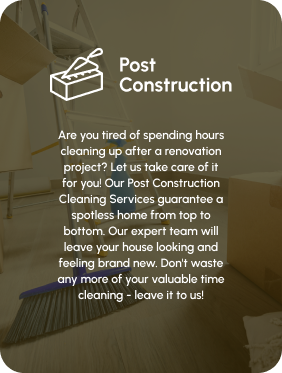
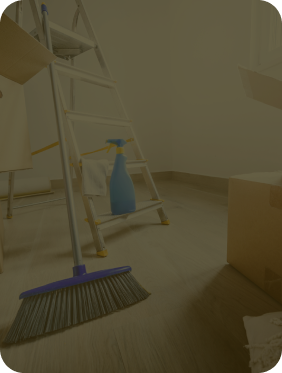
alteracoes1 06-03

Changed region(s): [[0.1986, 0.3539, 0.7943, 0.8257], [0.4255, 0.1475, 0.8227, 0.2654], [0.1702, 0.118, 0.3688, 0.2949]]

diff --git a/index.html b/index.html
@@ -105,65 +105,116 @@
             <swiper-slide class="swiper1">
               <div class="servicescard">
                 <div class="reveal card">
-                  <div class="thefront card__face card__face--front">
                     <img src="./assets/services1.png" alt="" draggable="false">
-                  </div>
-                  <div class="theback card__face card__face--back">
-                    <h2>Residential Cleaning</h2>
+                    <h2>
+                      <svg width="30" height="29" viewBox="0 0 30 29" fill="none" xmlns="http://www.w3.org/2000/svg">
+                      <path d="M28.8525 25.7938H28.3748C28.3653 25.1513 28.1002 24.5399 27.638 24.0933C27.309 23.7596 26.8863 23.5339 26.4259 23.4449C25.7966 22.1468 24.234 21.6047 22.936 22.234C22.4075 22.4902 21.9812 22.9165 21.7251 23.4449C21.2647 23.5333 20.8426 23.7596 20.513 24.0933C20.0508 24.5399 19.7863 25.1513 19.7762 25.7938H14.0441V14.8076C14.0441 14.5436 13.8304 14.3299 13.5665 14.3299H6.87909C6.61518 14.3299 6.40142 14.5436 6.40142 14.8076V25.7938H4.49074V12.5954L15.0001 3.96221L25.5088 12.5954V21.0172C25.5088 21.2811 25.7226 21.4948 25.9865 21.4948C26.2504 21.4948 26.4642 21.2811 26.4642 21.0172V13.3799L26.9299 13.7627C27.1323 13.9293 27.4308 13.9012 27.5992 13.7006L29.2185 11.7708C29.3881 11.5684 29.3618 11.2669 29.1594 11.0973C29.1582 11.0961 29.157 11.0955 29.1558 11.0943L26.4642 8.88334V0.955326C26.4642 0.428105 26.036 0.000597079 25.5088 0H21.6875C21.1602 0 20.7327 0.428105 20.7321 0.955326V4.17537L16.1501 0.411387C15.4754 -0.119416 14.5248 -0.119416 13.8501 0.411387L0.84433 11.0949C0.640723 11.2627 0.610869 11.5636 0.77865 11.7678C0.779844 11.769 0.780442 11.7702 0.781636 11.7714L2.40094 13.7012C2.56932 13.9018 2.86786 13.9298 3.07027 13.7633L3.536 13.3805V25.7944H1.14765C0.883738 25.7944 0.66998 26.0082 0.66998 26.2721V28.1827C0.66998 28.4466 0.883738 28.6604 1.14765 28.6604H28.8525C29.1164 28.6604 29.3302 28.4466 29.3302 28.1827V26.2721C29.3302 26.0082 29.1164 25.7944 28.8525 25.7944V25.7938ZM21.6875 0.955326H25.5088V8.09878L21.6875 4.95993V0.955326ZM2.82905 12.7243L1.82355 11.5266L14.4561 1.14997C14.775 0.898604 15.2246 0.898604 15.5434 1.14997L28.176 11.5266L27.1705 12.7243L15.3034 2.97465C15.1273 2.82956 14.8729 2.82956 14.6968 2.97465L2.82905 12.7243ZM21.1841 24.7734C21.408 24.5322 21.7179 24.3883 22.0469 24.3734C22.2529 24.3763 22.4374 24.2474 22.5055 24.0527C22.8004 23.1852 23.7426 22.7206 24.6102 23.0156C25.098 23.1816 25.4814 23.5649 25.6473 24.0527C25.713 24.2486 25.8993 24.3787 26.1059 24.3734C26.4337 24.3919 26.7424 24.5352 26.9687 24.7734C27.2487 25.0397 27.4111 25.4069 27.4207 25.7932H20.7333C20.7423 25.4069 20.9053 25.0397 21.1853 24.7734H21.1841ZM7.35736 15.2846H13.0894V25.7932H7.35736V15.2846ZM28.3748 27.7039H1.62532V26.7485H28.3748V27.7039ZM16.4331 14.3293C16.1692 14.3293 15.9554 14.543 15.9554 14.807V20.5389C15.9554 20.8028 16.1692 21.0166 16.4331 21.0166H23.1205C23.3844 21.0166 23.5981 20.8028 23.5981 20.5389V14.807C23.5981 14.543 23.3844 14.3293 23.1205 14.3293H16.4331ZM22.6428 17.1953H20.2544V15.2846H22.6428V17.1953ZM19.2991 15.2846V17.1953H16.9108V15.2846H19.2991ZM16.9108 18.1506H19.2991V20.0612H16.9108V18.1506ZM20.2544 20.0612V18.1506H22.6428V20.0612H20.2544Z" fill="white"/>
+                      </svg>
+                       Residential <br>Cleaning</h2>
                     <p>If your busy schedule leaves you with little time for residential cleaning, Maximum Shine Cleaning Services can help. Our team can provide a clean home more frequently, allowing you to spend less time cleaning and give your family a fresher, healthier environment.</p>
-                  </div>
                 </div>
               </div>
             </swiper-slide>
             <swiper-slide class="swiper1">
               <div class="servicescard">
                 <div class="card reveal">
-                  <div class="thefront card__face card__face--front">
                     <img src="./assets/services2.png" alt="" draggable="false">
-                  </div>
-                  <div class="theback card__face card__face--back">
-                    <h2>Office Cleaning</h2>
+                    <h2>
+                      <svg width="29" height="29" viewBox="0 0 29 29" fill="none" xmlns="http://www.w3.org/2000/svg">
+                        <path d="M26.9192 27.6942H26.1232V2.41542C26.1232 2.14841 25.9095 1.93234 25.6454 1.93234H16.7289C16.4648 1.93234 16.2511 2.14841 16.2511 2.41542V4.50841H15.2957V2.41542C15.2957 2.14841 15.082 1.93234 14.818 1.93234H12.7483V0.483084C12.7483 0.216072 12.5346 0 12.2706 0C12.0065 0 11.7928 0.216072 11.7928 0.483084V1.93234H9.72312C9.45908 1.93234 9.24541 2.14841 9.24541 2.41542V4.50841H7.81227C7.54822 4.50841 7.33455 4.72448 7.33455 4.9915V9.01682H3.35397C3.08993 9.01682 2.87626 9.2329 2.87626 9.49991V27.6942H2.08025C1.81621 27.6942 1.60254 27.9103 1.60254 28.1773C1.60254 28.4443 1.81621 28.6604 2.08025 28.6604H26.9192C27.1832 28.6604 27.3969 28.4443 27.3969 28.1773C27.3969 27.9103 27.1832 27.6942 26.9192 27.6942ZM10.2008 2.8985H14.3408V4.50841H10.2008V2.8985ZM8.60883 27.6948H8.29053V26.8898C8.29053 26.6228 8.07686 26.4067 7.81282 26.4067C7.54878 26.4067 7.33511 26.6228 7.33511 26.8898V27.6948H7.01681V26.0849H8.60883V27.6948ZM11.7934 15.2969V27.6948H9.56425V25.6018C9.56425 25.3348 9.35058 25.1187 9.08654 25.1187H6.5391C6.27506 25.1187 6.06139 25.3348 6.06139 25.6018V27.6948H3.83224V9.98299H11.7934V15.2964V15.2969ZM12.2711 9.01738H8.29053V5.47514H16.2517V14.8138H12.7488V13.2039H14.182C14.446 13.2039 14.6597 12.9879 14.6597 12.7208C14.6597 12.4538 14.446 12.2378 14.182 12.2378H12.7488V10.6279H14.182C14.446 10.6279 14.6597 10.4118 14.6597 10.1448C14.6597 9.87775 14.446 9.66168 14.182 9.66168H12.7488V9.50047C12.7488 9.23346 12.5352 9.01738 12.2711 9.01738ZM20.71 27.6948H12.7488V15.78H20.71V27.6948ZM25.1683 27.6948H21.6654V14.6526C21.6654 14.3856 21.4517 14.1695 21.1877 14.1695C20.9237 14.1695 20.71 14.3856 20.71 14.6526V14.8138H19.7546V14.6526C19.7546 14.3856 19.5409 14.1695 19.2768 14.1695C19.0128 14.1695 18.7991 14.3856 18.7991 14.6526V14.8138H17.2071V2.8985H25.1683V27.6948Z" fill="white"/>
+                        <path d="M14.8583 26.869C15.0563 26.869 15.2165 26.6519 15.2165 26.3836V17.3233C15.2165 17.055 15.0563 16.8379 14.8583 16.8379C14.6602 16.8379 14.5 17.055 14.5 17.3233V26.3836C14.5 26.6519 14.6602 26.869 14.8583 26.869Z" fill="white"/>
+                        <path d="M16.8284 26.869C17.1254 26.869 17.3658 26.6519 17.3658 26.3836V17.3233C17.3658 17.055 17.1254 16.8379 16.8284 16.8379C16.5314 16.8379 16.291 17.055 16.291 17.3233V26.3836C16.291 26.6519 16.5314 26.869 16.8284 26.869Z" fill="white"/>
+                        <path d="M18.6204 26.869C18.9174 26.869 19.1578 26.6519 19.1578 26.3836V17.3233C19.1578 17.055 18.9174 16.8379 18.6204 16.8379C18.3234 16.8379 18.083 17.055 18.083 17.3233V26.3836C18.083 26.6519 18.3234 26.869 18.6204 26.869Z" fill="white"/>
+                        <path d="M19.3362 6.09025C19.6332 6.09025 19.8736 5.89798 19.8736 5.66039V5.08708C19.8736 4.84949 19.6332 4.65723 19.3362 4.65723C19.0392 4.65723 18.7988 4.84949 18.7988 5.08708V5.66039C18.7988 5.89798 19.0392 6.09025 19.3362 6.09025Z" fill="white"/>
+                        <path d="M21.3075 6.09025C21.5055 6.09025 21.6657 5.89798 21.6657 5.66039V5.08708C21.6657 4.84949 21.5055 4.65723 21.3075 4.65723C21.1095 4.65723 20.9492 4.84949 20.9492 5.08708V5.66039C20.9492 5.89798 21.1095 6.09025 21.3075 6.09025Z" fill="white"/>
+                        <path d="M23.2776 6.09025C23.5746 6.09025 23.815 5.89798 23.815 5.66039V5.08708C23.815 4.84949 23.5746 4.65723 23.2776 4.65723C22.9806 4.65723 22.7402 4.84949 22.7402 5.08708V5.66039C22.7402 5.89798 22.9806 6.09025 23.2776 6.09025Z" fill="white"/>
+                        <path d="M19.3362 9.31485C19.6332 9.31485 19.8736 9.12259 19.8736 8.885V8.31169C19.8736 8.0741 19.6332 7.88184 19.3362 7.88184C19.0392 7.88184 18.7988 8.0741 18.7988 8.31169V8.885C18.7988 9.12259 19.0392 9.31485 19.3362 9.31485Z" fill="white"/>
+                        <path d="M21.3075 9.31485C21.5055 9.31485 21.6657 9.12259 21.6657 8.885V8.31169C21.6657 8.0741 21.5055 7.88184 21.3075 7.88184C21.1095 7.88184 20.9492 8.0741 20.9492 8.31169V8.885C20.9492 9.12259 21.1095 9.31485 21.3075 9.31485Z" fill="white"/>
+                        <path d="M23.2776 9.31485C23.5746 9.31485 23.815 9.12259 23.815 8.885V8.31169C23.815 8.0741 23.5746 7.88184 23.2776 7.88184C22.9806 7.88184 22.7402 8.0741 22.7402 8.31169V8.885C22.7402 9.12259 22.9806 9.31485 23.2776 9.31485Z" fill="white"/>
+                        <path d="M19.3362 12.5385C19.6332 12.5385 19.8736 12.3462 19.8736 12.1086V11.5353C19.8736 11.2977 19.6332 11.1055 19.3362 11.1055C19.0392 11.1055 18.7988 11.2977 18.7988 11.5353V12.1086C18.7988 12.3462 19.0392 12.5385 19.3362 12.5385Z" fill="white"/>
+                        <path d="M21.3075 12.5385C21.5055 12.5385 21.6657 12.3462 21.6657 12.1086V11.5353C21.6657 11.2977 21.5055 11.1055 21.3075 11.1055C21.1095 11.1055 20.9492 11.2977 20.9492 11.5353V12.1086C20.9492 12.3462 21.1095 12.5385 21.3075 12.5385Z" fill="white"/>
+                        <path d="M23.2776 12.5385C23.5746 12.5385 23.815 12.3462 23.815 12.1086V11.5353C23.815 11.2977 23.5746 11.1055 23.2776 11.1055C22.9806 11.1055 22.7402 11.2977 22.7402 11.5353V12.1086C22.7402 12.3462 22.9806 12.5385 23.2776 12.5385Z" fill="white"/>
+                        <path d="M5.72293 13.9719C6.01995 13.9719 6.26031 13.7316 6.26031 13.4346V12.718C6.26031 12.421 6.01995 12.1807 5.72293 12.1807C5.42591 12.1807 5.18555 12.421 5.18555 12.718V13.4346C5.18555 13.7316 5.42591 13.9719 5.72293 13.9719Z" fill="white"/>
+                        <path d="M7.69322 13.9719C7.89123 13.9719 8.05147 13.7316 8.05147 13.4346V12.718C8.05147 12.421 7.89123 12.1807 7.69322 12.1807C7.4952 12.1807 7.33496 12.421 7.33496 12.718V13.4346C7.33496 13.7316 7.4952 13.9719 7.69322 13.9719Z" fill="white"/>
+                        <path d="M9.66336 13.9719C9.96038 13.9719 10.2007 13.7316 10.2007 13.4346V12.718C10.2007 12.421 9.96038 12.1807 9.66336 12.1807C9.36633 12.1807 9.12598 12.421 9.12598 12.718V13.4346C9.12598 13.7316 9.36633 13.9719 9.66336 13.9719Z" fill="white"/>
+                        <path d="M5.72293 17.1965C6.01995 17.1965 6.26031 16.9562 6.26031 16.6592V15.9426C6.26031 15.6456 6.01995 15.4053 5.72293 15.4053C5.42591 15.4053 5.18555 15.6456 5.18555 15.9426V16.6592C5.18555 16.9562 5.42591 17.1965 5.72293 17.1965Z" fill="white"/>
+                        <path d="M7.69322 17.1965C7.89123 17.1965 8.05147 16.9562 8.05147 16.6592V15.9426C8.05147 15.6456 7.89123 15.4053 7.69322 15.4053C7.4952 15.4053 7.33496 15.6456 7.33496 15.9426V16.6592C7.33496 16.9562 7.4952 17.1965 7.69322 17.1965Z" fill="white"/>
+                        <path d="M9.66336 17.1965C9.96038 17.1965 10.2007 16.9562 10.2007 16.6592V15.9426C10.2007 15.6456 9.96038 15.4053 9.66336 15.4053C9.36633 15.4053 9.12598 15.6456 9.12598 15.9426V16.6592C9.12598 16.9562 9.36633 17.1965 9.66336 17.1965Z" fill="white"/>
+                        <path d="M5.72293 20.4202C6.01995 20.4202 6.26031 20.1798 6.26031 19.8829V19.1662C6.26031 18.8692 6.01995 18.6289 5.72293 18.6289C5.42591 18.6289 5.18555 18.8692 5.18555 19.1662V19.8829C5.18555 20.1798 5.42591 20.4202 5.72293 20.4202Z" fill="white"/>
+                        <path d="M7.69322 20.4202C7.89123 20.4202 8.05147 20.1798 8.05147 19.8829V19.1662C8.05147 18.8692 7.89123 18.6289 7.69322 18.6289C7.4952 18.6289 7.33496 18.8692 7.33496 19.1662V19.8829C7.33496 20.1798 7.4952 20.4202 7.69322 20.4202Z" fill="white"/>
+                        <path d="M9.66336 20.4202C9.96038 20.4202 10.2007 20.1798 10.2007 19.8829V19.1662C10.2007 18.8692 9.96038 18.6289 9.66336 18.6289C9.36633 18.6289 9.12598 18.8692 9.12598 19.1662V19.8829C9.12598 20.1798 9.36633 20.4202 9.66336 20.4202Z" fill="white"/>
+                        <path d="M5.72293 23.6448C6.01995 23.6448 6.26031 23.4045 6.26031 23.1075V22.3908C6.26031 22.0938 6.01995 21.8535 5.72293 21.8535C5.42591 21.8535 5.18555 22.0938 5.18555 22.3908V23.1075C5.18555 23.4045 5.42591 23.6448 5.72293 23.6448Z" fill="white"/>
+                        <path d="M7.69322 23.6448C7.89123 23.6448 8.05147 23.4045 8.05147 23.1075V22.3908C8.05147 22.0938 7.89123 21.8535 7.69322 21.8535C7.4952 21.8535 7.33496 22.0938 7.33496 22.3908V23.1075C7.33496 23.4045 7.4952 23.6448 7.69322 23.6448Z" fill="white"/>
+                        <path d="M9.66336 23.6448C9.96038 23.6448 10.2007 23.4045 10.2007 23.1075V22.3908C10.2007 22.0938 9.96038 21.8535 9.66336 21.8535C9.36633 21.8535 9.12598 22.0938 9.12598 22.3908V23.1075C9.12598 23.4045 9.36633 23.6448 9.66336 23.6448Z" fill="white"/>
+                        <path d="M23.2776 15.7631C23.5746 15.7631 23.815 15.5708 23.815 15.3332V14.7599C23.815 14.5223 23.5746 14.3301 23.2776 14.3301C22.9806 14.3301 22.7402 14.5223 22.7402 14.7599V15.3332C22.7402 15.5708 22.9806 15.7631 23.2776 15.7631Z" fill="white"/>
+                        <path d="M23.2776 18.9876C23.5746 18.9876 23.815 18.7472 23.815 18.4502V17.7336C23.815 17.4366 23.5746 17.1963 23.2776 17.1963C22.9806 17.1963 22.7402 17.4366 22.7402 17.7336V18.4502C22.7402 18.7472 22.9806 18.9876 23.2776 18.9876Z" fill="white"/>
+                        <path d="M23.2776 22.2112C23.5746 22.2112 23.815 21.9709 23.815 21.6739V20.9572C23.815 20.6603 23.5746 20.4199 23.2776 20.4199C22.9806 20.4199 22.7402 20.6603 22.7402 20.9572V21.6739C22.7402 21.9709 22.9806 22.2112 23.2776 22.2112Z" fill="white"/>
+                        <path d="M23.2776 25.4358C23.5746 25.4358 23.815 25.1955 23.815 24.8985V24.1818C23.815 23.8849 23.5746 23.6445 23.2776 23.6445C22.9806 23.6445 22.7402 23.8849 22.7402 24.1818V24.8985C22.7402 25.1955 22.9806 25.4358 23.2776 25.4358Z" fill="white"/>
+                        <path d="M14.5001 7.52329C14.5001 7.32528 14.2918 7.16504 14.0343 7.16504H10.3086C10.0511 7.16504 9.84277 7.32528 9.84277 7.52329C9.84277 7.72131 10.0511 7.88155 10.3086 7.88155H14.0343C14.2918 7.88155 14.5001 7.72131 14.5001 7.52329Z" fill="white"/>
+                        </svg>
+                         Office <br>Cleaning</h2>
                     <p>Office cleaning is an important aspect of maintaining a good first impression for your customers and visitors, as well as promoting better physical and emotional wellbeing for your staff. By reducing the presence of viruses, allergens, dust, and mold, your team can remain healthy and focused, leading to increased productivity. Our team of professional office cleaners are thoroughly vetted, trained, and supported by experienced management to ensure that the process is hassle-free for you. This way, your staff can stay healthy and focused on their work.</p>
-                  </div>
                 </div>
               </div>
             </swiper-slide>
             <swiper-slide class="swiper1">
               <div class="servicescard">
                 <div class="card reveal">
-                  <div class="thefront card__face card__face--front">
                     <img src="./assets/services3.png" alt="" draggable="false">
-                  </div>
-                  <div class="theback card__face card__face--back">
-                    <h2>Move-in / Move Out Cleaning</h2>
+                    <h2>
+                      <svg width="28" height="28" viewBox="0 0 28 28" fill="none" xmlns="http://www.w3.org/2000/svg">
+                        <g clip-path="url(#clip0_5474_81)">
+                        <path d="M5.24512 12.3597C2.44732 12.3629 0.180296 14.6151 0.176758 17.3946C0.176758 20.0432 4.68279 26.1075 4.87652 26.3662C4.96351 26.4822 5.10092 26.5511 5.24659 26.5511C5.39226 26.5511 5.52967 26.4825 5.61666 26.3662C5.80745 26.1075 10.3135 20.0432 10.3135 17.3946C10.3099 14.6151 8.04292 12.3629 5.24512 12.3594V12.3597ZM5.24512 25.3136C3.81673 23.3242 1.09855 19.1749 1.09855 17.3949C1.09855 15.1198 2.9551 13.2754 5.24512 13.2754C7.53514 13.2754 9.39169 15.1198 9.39169 17.3949C9.39169 19.1743 6.67321 23.3239 5.24512 25.3136Z" fill="white"/>
+                        <path d="M5.24495 14.6475C3.71837 14.6475 2.48047 15.8773 2.48047 17.3939C2.48047 18.9105 3.71837 20.1403 5.24495 20.1403C6.77153 20.1403 8.00943 18.9105 8.00943 17.3939C8.00795 15.8776 6.77123 14.6489 5.24495 14.6475ZM5.24495 19.2248C4.22703 19.2248 3.40196 18.4051 3.40196 17.3939C3.40196 16.3826 4.22703 15.5629 5.24495 15.5629C6.26287 15.5629 7.08793 16.3826 7.08793 17.3939C7.08793 18.4051 6.26287 19.2248 5.24495 19.2248Z" fill="white"/>
+                        <path d="M22.7539 0C19.9561 0.00351541 17.6891 2.25572 17.6855 5.03523C17.6855 7.6838 22.1916 13.7482 22.3853 14.0068C22.4723 14.1228 22.6097 14.1917 22.7554 14.1917C22.9011 14.1917 23.0385 14.1231 23.1255 14.0068C23.3162 13.7482 27.8223 7.6838 27.8223 5.03523C27.8187 2.25572 25.5517 0.00351541 22.7539 0ZM22.7539 12.954C21.3255 10.9651 18.6073 6.81578 18.6073 5.03523C18.6073 2.76018 20.4639 0.915763 22.7539 0.915763C25.0439 0.915763 26.9005 2.76018 26.9005 5.03523C26.9005 6.81461 24.182 10.9643 22.7539 12.954Z" fill="white"/>
+                        <path d="M22.7528 2.28906C21.2262 2.28906 19.9883 3.51887 19.9883 5.03547C19.9883 6.55208 21.2262 7.78188 22.7528 7.78188C24.2793 7.78188 25.5172 6.55208 25.5172 5.03547C25.5158 3.51916 24.279 2.29053 22.7528 2.28906ZM22.7528 6.86641C21.7348 6.86641 20.9098 6.04674 20.9098 5.03547C20.9098 4.02421 21.7348 3.20453 22.7528 3.20453C23.7707 3.20453 24.5957 4.02421 24.5957 5.03547C24.5957 6.04674 23.7707 6.86641 22.7528 6.86641Z" fill="white"/>
+                        <path d="M16.8994 15.0133C15.9369 15.7943 15.3796 16.9644 15.3819 18.1986V21.513C15.3784 24.2926 13.1114 26.5448 10.3136 26.5483H6.16699V27.4637H10.3136C13.62 27.4602 16.2996 24.7979 16.3031 21.5133V18.1989C16.3037 17.2395 16.7372 16.3307 17.4844 15.7229C18.2316 15.1144 19.2136 14.8713 20.161 15.0593L22.6616 15.5538L22.842 14.6568L20.3403 14.1597C19.1224 13.9165 17.8592 14.23 16.8991 15.0139L16.8994 15.0133Z" fill="white"/>
+                        </g>
+                        <defs>
+                        <clipPath id="clip0_5474_81">
+                        <rect width="27.6448" height="27.4641" fill="white" transform="translate(0.177734)"/>
+                        </clipPath>
+                        </defs>
+                        </svg>
+                         Move-in / <br>Move Out Cleaning</h2>
                     <p>You deserve a fresh, clean start in your new home. But after tackling the process of finding a new home, making sense of all your belongings, packing and cleaning your old home, and hiring a moving company, who has the energy or mind to think about tidying up? The best time to clean your new home is while it's empty, so be sure to add “Call Maximum Shine Cleaning Services” to your move-in and move-out checklist.</p>
-                  </div>
                 </div>
               </div>
             </swiper-slide>
             <swiper-slide class="swiper1">
               <div class="servicescard">
                 <div class="card reveal">
-                  <div class="thefront card__face card__face--front">
                     <img src="./assets/services4.png" alt="" draggable="false">
-                  </div>
-                  <div class="theback card__face card__face--back">
-                    <h2>Post Construction</h2>
+                    <h2>
+                      <svg width="32" height="31" viewBox="0 0 32 31" fill="none" xmlns="http://www.w3.org/2000/svg">
+                        <path d="M31.4425 14.6142C31.4298 14.5833 31.4164 14.5549 31.3983 14.5252C31.3674 14.4737 31.3274 14.4295 31.282 14.3884C31.2639 14.3714 31.256 14.3484 31.2354 14.3339C31.2263 14.3272 31.2136 14.3272 31.2045 14.3212C31.193 14.3133 31.1864 14.3018 31.1737 14.2939L28.2741 12.6367C28.6616 12.2638 28.9159 11.7582 28.9159 11.1872C28.9159 10.4159 28.486 9.72141 27.7945 9.37387L23.0616 7.0077L23.6107 5.63449L23.9825 5.44861C24.175 5.56486 24.3972 5.62783 24.6285 5.62783C24.746 5.62783 24.8659 5.61209 24.9852 5.57879L29.9633 4.15533C30.8673 3.89559 31.4988 3.05883 31.4988 2.11854C31.4988 0.950586 30.5482 0 29.3803 0H28.7863C28.3055 0 27.8357 0.165293 27.4621 0.463789L23.8402 3.36096C23.5405 3.60133 23.3934 3.94705 23.3801 4.30549L22.8133 4.58824C22.6711 4.65908 22.5603 4.77957 22.5021 4.9267L21.9015 6.42766L20.0972 5.52611C18.7192 4.83648 16.9518 5.20945 15.9691 6.38891L10.4666 12.9921L0.980137 15.5218C0.943809 15.5321 0.916562 15.5539 0.883262 15.5696C0.863887 15.5787 0.840879 15.5745 0.821504 15.5866C0.81 15.5932 0.804551 15.6072 0.794258 15.6138C0.713125 15.6683 0.64168 15.7337 0.592637 15.8167C0.587187 15.8257 0.584766 15.8348 0.579922 15.8439C0.537539 15.9238 0.515137 16.0134 0.510293 16.1061C0.510293 16.12 0.5 16.1321 0.5 16.146V25.1875C0.5 25.4188 0.624121 25.6331 0.825742 25.7482L9.86721 30.9146C9.9665 30.9715 10.0779 31 10.1875 31C10.2505 31 10.3165 30.9909 10.38 30.9703L31.0465 24.5118C31.3165 24.4276 31.5 24.1788 31.5 23.8954V14.854C31.5 14.8322 31.4873 14.814 31.4861 14.7922C31.4794 14.7304 31.4667 14.6723 31.4437 14.6142H31.4425ZM28.2716 1.4725C28.4163 1.35625 28.5998 1.29146 28.7869 1.29146H29.3821C29.838 1.29146 30.2085 1.66201 30.2085 2.11793C30.2085 2.48484 29.9615 2.8118 29.6091 2.9123L24.973 4.23768C24.973 4.23768 24.9718 4.23404 24.9718 4.23102C24.9579 4.20135 24.9319 4.18318 24.9137 4.15715L28.2704 1.47189L28.2716 1.4725ZM16.9633 7.21537C17.3653 6.73463 17.9538 6.45854 18.5805 6.45854C18.905 6.45854 19.2302 6.53604 19.525 6.67953L21.4226 7.6277L21.2924 7.95344L15.0216 11.7176C14.7164 11.9011 14.6171 12.2977 14.8006 12.6034C14.9223 12.8063 15.1348 12.9171 15.3546 12.9171C15.4684 12.9171 15.5834 12.8874 15.6864 12.8238L22.1449 8.94883C22.2666 8.87617 22.3592 8.76658 22.4125 8.63519L22.5833 8.20895L27.2218 10.5273C27.4724 10.6538 27.6286 10.9057 27.6286 11.1909C27.6286 11.5293 27.3986 11.8224 27.0704 11.9053L26.7568 11.984C26.7568 11.984 26.7531 11.9853 26.7519 11.9853L9.37012 16.3301L16.9651 7.21477L16.9633 7.21537ZM9.54146 29.2411L1.79086 24.8127V17.2589L9.54086 21.6867V29.2405L9.54146 29.2411ZM10.2638 20.6126L2.83166 16.3658L9.03711 14.7111L7.10869 17.0246C6.93068 17.2401 6.90949 17.5453 7.05844 17.7814C7.17711 17.9727 7.3866 18.0835 7.60457 18.0835C7.65603 18.0835 7.70932 18.0769 7.76199 18.0629L9.93199 17.5204L11.7932 18.6375C11.8979 18.6993 12.013 18.7296 12.125 18.7296C12.343 18.7296 12.5579 18.6188 12.679 18.4171C12.8625 18.1108 12.7644 17.7142 12.458 17.5307L11.7024 17.0772L14.1848 16.4572L15.6676 17.3461C15.7723 17.4078 15.8874 17.4381 15.9994 17.4381C16.218 17.4381 16.4323 17.3273 16.5534 17.1257C16.7369 16.8193 16.6388 16.4227 16.3324 16.2393L15.9564 16.0146L18.44 15.3934L19.5408 16.0546C19.6467 16.1164 19.7618 16.1466 19.8738 16.1466C20.0924 16.1466 20.3067 16.0358 20.4278 15.8342C20.61 15.5291 20.5132 15.1355 20.211 14.9508L22.6947 14.3296L23.4164 14.7625C23.5211 14.8255 23.6362 14.8558 23.7482 14.8558C23.9668 14.8558 24.1811 14.7444 24.3022 14.5434C24.4196 14.3472 24.4106 14.1171 24.3149 13.9258L26.8246 13.2979L29.2452 14.6814L10.2614 20.6138L10.2638 20.6126ZM30.2085 23.4207L10.8335 29.476V21.7866L30.2085 15.7325V23.4207Z" fill="white"/>
+                        </svg>
+                         Post <br>Construction</h2>
                     <p>Are you tired of spending hours cleaning up after a renovation project? Let us take care of it for you! Our Post Construction Cleaning Services guarantee a spotless home from top to bottom. Our expert team will leave your house looking and feeling brand new. Don't waste any more of your valuable time cleaning - leave it to us!</p>
-                  </div>
                 </div>        
               </div>
             </swiper-slide>
             <swiper-slide class="swiper1">
               <div class="servicescard">
                 <div class="card reveal">
-                  <div class="thefront card__face card__face--front">
                     <img src="./assets/services5.png" alt="" draggable="false">
-                  </div>
-                  <div class="theback card__face card__face--back">
-                    <h2>Driveways & Garage Cleaning</h2>
+                    <h2>
+                      <svg width="28" height="29" viewBox="0 0 28 29" fill="none" xmlns="http://www.w3.org/2000/svg">
+                        <g clip-path="url(#clip0_5474_116)">
+                        <path d="M27.5292 8.11736L14.2394 0.0697015C14.0888 -0.0219317 13.9002 -0.0219317 13.7497 0.0697015L0.469395 8.11736C0.330755 8.20542 0.249237 8.36013 0.255188 8.52435V28.1821C0.255188 28.4451 0.440834 28.6694 0.703833 28.6694H3.53792C3.80092 28.6634 4.00977 28.4451 4.00382 28.1821V14.6864H23.9965V28.1821C23.9912 28.4451 24.1994 28.6634 24.4624 28.6694H27.2965C27.5595 28.6694 27.7452 28.4451 27.7452 28.1821V8.52435C27.7505 8.36013 27.6684 8.20483 27.5292 8.11677V8.11736ZM4.00382 13.7344V11.8303H23.9965V13.7344H4.00382ZM26.7931 27.7174H24.9486V11.3584C24.9444 11.0925 24.7284 10.8794 24.4624 10.8783H3.53732C3.27135 10.8794 3.05536 11.0931 3.05119 11.3584V27.7174H1.20663V8.79271L14.0002 1.03304L26.7931 8.79271V27.7168V27.7174Z" fill="white"/>
+                        <path d="M21.3936 20.0342L20.1357 16.6295C19.9031 16.0024 19.3074 15.5835 18.638 15.5781H9.58479C8.91599 15.5841 8.31978 16.0024 8.08712 16.6295L6.8465 19.9819L6.35799 20.443C5.88078 20.8542 5.60707 21.4534 5.60945 22.0835V28.1813C5.60469 28.4449 5.81355 28.6626 6.07655 28.6686H9.25277C9.51458 28.662 9.72165 28.4443 9.71451 28.1831C9.71451 28.1831 9.71451 28.1819 9.71451 28.1813V26.467H18.2828V28.1813C18.2757 28.4431 18.4815 28.6609 18.7434 28.6686C18.7434 28.6686 18.7445 28.6686 18.7451 28.6686H21.922C22.1856 28.6626 22.3944 28.4449 22.389 28.1813V21.955C22.3896 21.3677 22.151 20.8048 21.7286 20.3972L21.3936 20.0342ZM8.98025 16.9705C9.07248 16.7134 9.31227 16.5391 9.58539 16.5302H18.638C18.9106 16.5391 19.1503 16.7134 19.2432 16.9705L20.2851 19.8028H7.93777L8.97965 16.9705H8.98025ZM8.76366 27.7166H6.56208V26.467H8.76366V27.7166ZM19.236 27.7166V26.467H21.4376V27.7166H19.236ZM21.4376 25.515H6.56208V22.0835C6.5603 21.73 6.71441 21.3933 6.98336 21.1642C6.98871 21.1594 6.99228 21.1648 6.99704 21.16L7.44152 20.7548H20.7456L21.0479 21.0678C21.0544 21.0749 21.0568 21.0767 21.0639 21.0839C21.3031 21.3106 21.4382 21.6259 21.4376 21.9556V25.5156V25.515Z" fill="white"/>
+                        <path d="M8.91186 21.8857H8.63756C7.86522 21.8857 7.23926 22.5117 7.23926 23.284C7.23926 24.0564 7.86522 24.6823 8.63756 24.6823H8.91186C9.6842 24.6823 10.3102 24.0564 10.3102 23.284C10.3102 22.5117 9.6842 21.8857 8.91186 21.8857ZM8.91186 23.7303H8.63756C8.39122 23.7303 8.19129 23.5304 8.19129 23.284C8.19129 23.0377 8.39122 22.8378 8.63756 22.8378H8.91186C9.1582 22.8378 9.35813 23.0377 9.35813 23.284C9.35813 23.5304 9.1582 23.7303 8.91186 23.7303Z" fill="white"/>
+                        <path d="M19.363 21.8857H19.0887C18.3164 21.8857 17.6904 22.5117 17.6904 23.284C17.6904 24.0564 18.3164 24.6823 19.0887 24.6823H19.363C20.1354 24.6823 20.7613 24.0564 20.7613 23.284C20.7613 22.5117 20.1354 21.8857 19.363 21.8857ZM19.363 23.7303H19.0887C18.8424 23.7303 18.6425 23.5304 18.6425 23.284C18.6425 23.0377 18.8424 22.8378 19.0887 22.8378H19.363C19.6094 22.8378 19.8093 23.0377 19.8093 23.284C19.8093 23.5304 19.6094 23.7303 19.363 23.7303Z" fill="white"/>
+                        <path d="M16.8567 22.4213C16.8567 22.1583 16.6436 21.9453 16.3806 21.9453H11.561C11.298 21.9453 11.085 22.1583 11.085 22.4213V24.2064C11.085 24.4694 11.298 24.6824 11.561 24.6824H16.3806C16.6436 24.6824 16.8567 24.4694 16.8567 24.2064V22.4213ZM15.9641 23.7304H12.037V22.8973H15.9641V23.7304Z" fill="white"/>
+                        </g>
+                        <defs>
+                        <clipPath id="clip0_5474_116">
+                        <rect width="27.4906" height="28.6687" fill="white" transform="translate(0.254883)"/>
+                        </clipPath>
+                        </defs>
+                        </svg>
+                         Driveways & <br>Garage Cleaning</h2>
                     <p>Transform your garage from a cluttered mess to a pristine space with our top-notch cleaning service. Our expert team will not only remove all items from your garage but also meticulously clean every nook and cranny. Say goodbye to dirt and bugs hiding in small areas and hello to a sparkling clean garage. Choose our service today and experience the difference.</p>
-                  </div>
                 </div>         
               </div>
             </swiper-slide>

diff --git a/css/style.css b/css/style.css
@@ -596,8 +596,8 @@ position: absolute;
     font-family: 'Urbanist', sans-serif;
     max-width: 795px;
     margin: auto;
-    margin-top: -530px;
-    padding-right: 50px;
+    margin-top: -450px;
+    padding-right: 40px;
     float: right;
 }
 .servicescontainer .servicestitle h2{
@@ -640,7 +640,6 @@ swiper-container.mySwiper {
     height: 100%;
     max-height: 480px;
     z-index: 999;
-    margin-top: -150px;
 }
 /* THE MAINCONTAINER HOLDS EVERYTHING */
 .maincontainer{
@@ -657,87 +656,46 @@ swiper-container.mySwiper {
 /* THE CARD HOLDS THE FRONT AND BACK FACES */
 .card{
   position: relative;
-  top: 0;
+    display: flex;
+    flex-direction: column;
+    text-align: center;
+    justify-content: center;
+    top: 0;
   left: 0;
   width: 100%;
   max-width: 300px;
   height: 100%;
   margin: auto;
   transition: all 0.8s ease;
-}
-
-/* THE PSUEDO CLASS CONTROLS THE FLIP ON MOUSEOVER AND MOUSEOUT
-.thecard:hover{
-}
- */
-/* THE FRONT FACE OF THE CARD, WHICH SHOWS BY DEFAULT */
- .thefront{
-  position: absolute;
-  top: 0;
-  left: 0;
-  width: 100%;
-  max-width: 300px;
-  height: 100%;
-  border-radius: 32px;
-  backface-visibility: hidden;
-  border: 1px solid #504000;
-  overflow: hidden;
-}
-.thefront img, .card__face--front img{
-  border-radius: 30px;
-  width: 100%;
-  max-width: 300px;
-  height: 400px;
-}
-
-/* THE BACK FACE OF THE CARD, WHICH SHOWS ON MOUSEOVER */
-.theback{
-  position: absolute;
-  display: flex;
-  flex-direction: column;
-  top: 0;
-  left: 0;
-  width: 100%;
-  max-width: 300px;
-  height: 100%;
-  border-radius: 32px;
-  backface-visibility: hidden;
-  overflow: hidden;
-  background: #030606;
-  padding: 30px 20px;
-  border: 1px solid #FFF;
-  text-align: center;
-}
-
-
-/*This block (starts here) is merely styling for the flip card, and is NOT an essential part of the flip code */
-.theback h2{
-  color: #E8C948;
-  margin-bottom: 30px;
-  font-size: 12px;
-  font-style: normal;
-  font-weight: 900;
-  line-height: 100%;
-  text-align: center;
-  display: flex;
-  flex-direction: column;
-  margin: auto;
-}
-
-.theback p{
-  font-size: 14px;
-  font-style: normal;
-  font-weight: 500;
-  line-height: 130%;
   color: #FFF;
-  display: flex;
-  flex-direction: column;
-  margin: auto;
-  text-align: center;
-  margin-top: 25px;
 }
-/*This block (ends here) is merely styling for the flip card, and is NOT an essential part of the flip code */
- @media screen and (max-width:1300px) {
+.card h2, .card p{
+    position: absolute;
+}
+.card h2,.card h2 svg{
+    display: flex;
+    flex-direction: column;
+    text-align: center;
+    top: 20;
+    width: 100%;
+    margin: auto;
+}
+.card h2{
+    font-size: 20px;
+    font-weight: bold;
+}
+.card h2 svg{
+    margin-bottom: 5px;
+}
+.card p{
+    top: 120;
+    padding: 0 10px;
+    font-size: 14px;
+    font-weight: 300;
+    letter-spacing: 0.5;
+    line-height: 130%;
+}
+@media screen and (max-width:1300px) {
     .maincontainer{
         display: flex;
         row-gap: 24px;
@@ -765,7 +723,7 @@ swiper-container.mySwiper {
         flex-direction: column;
         max-width: 665px;
         margin: auto;
-        margin-top: -300px;
+        margin-top: -250px;
         float: left;
         padding: 0;
     }
@@ -792,33 +750,6 @@ swiper-container.mySwiper {
         margin-top: -102px;
     }
 } 
-  .scene {
-    display: inline-block;
-    perspective: 600px;
-  }
-  
-  .card {
-    position: relative;
-    width: 100%;
-    max-width: 300px;
-    height: 100%;
-    cursor: grab;
-    transform-style: preserve-3d;
-    transform-origin: center right;
-    transition: transform 1s;
-  }
-  
-  .card.is-flipped {
-    transform: translateX(-100%) rotateY(-180deg);
-  }
-  
-  /*
-  .card__face--front {
-  }*/
-  
-  .card__face--back {
-    transform: rotateY(180deg);
-  }
   .wavec1{
       position: absolute;
       top: -100px;
@@ -988,12 +919,12 @@ swiper-container.mySwiper {
     max-width: 3999px;
     margin: auto;
     z-index: 999;
-    padding-bottom: 500px;
+    padding-bottom: 450px;
 }
 .portifolio{
     position: relative;
     width: 100%;
-    max-width: 1400px;
+    max-width: 1490px;
     margin: auto;
     color: #030606;
     z-index: 999;
@@ -1003,10 +934,9 @@ swiper-container.mySwiper {
     font-family: 'Urbanist', sans-serif;
     max-width: 965px;
     margin: auto;
-    margin-top: -500px;
+    margin-top: -450px;
     float: right;
     padding-right: 50px;
-    padding-bottom: 50px;
 }
 .portifolio h2{
     display: flex;
@@ -1019,9 +949,9 @@ swiper-container.mySwiper {
 .portifolio p{
     color: #030606;
     z-index: 9;
-    font-size:48px;
+    font-size:40px;
     font-style: normal;
-    font-weight: 300;
+    font-weight: 400;
     line-height: 100%;
     max-width: 735px;
     margin-left: 23px;
@@ -1039,7 +969,6 @@ swiper-container.mySwiper2 {
   max-height: 735px;
   cursor: grab;
     margin: 0 ;
-    margin-top: 0px;
 }
 swiper-slide.swiper2 {
   max-width: 706px;
@@ -1156,7 +1085,7 @@ swiper-slide.swiper2 {
     max-width: 3999px;
     margin: auto;
     height: 100%;
-    max-height: 470px;
+    max-height: 430px;
     background-color: #fff;
     z-index: 999;
 }
